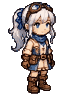
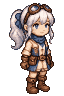
art: regenerate female GATE 02 sprites as whole figures (no patch overlap)
Codex round 4: one coherent sprite per direction, ponytail on her right in
all 8, male unchanged, 16/16 technical PASS. Female NE style mismatch pending.

diff --git a/assets/concepts/trainer-gate02/PROVENANCE.md b/assets/concepts/trainer-gate02/PROVENANCE.md
@@ -1,47 +1,55 @@
 # ART-003-G02 final direction-master provenance
 
 Date: 2026-11-25  
-Approved base: `draft-extract/trainer_{m,f}_{s,sw,w,nw,n,ne,e,se}_64x96.png` (owner-approved look, D018)  
-Design reference: `../trainer-master-v3.webp`
+Approved design reference: `../trainer-master-v3.webp`  
+Scale/reference geometry: `draft-extract/trainer_f_{s,sw,w,nw,n,ne,e,se}_64x96.png`
 
-## Tools and method
+## Final source decision
 
-- OpenAI built-in image edit produced one hair-placement reference sheet from `draft-extract/preview_4x.png` plus `trainer-master-v3.webp`.
-- Python 3 + Pillow performed every crop, exact 4x nearest-neighbour reduction, mask/paste, palette remap, hard-alpha cleanup, detail edit, lineup composition and validation preparation.
-- The generated sheet was **not** accepted as a full-sprite replacement because it changed non-hair pixels and added a background. Only segmented female hair/bow patch pixels were used in the four named directions. They were remapped to each approved draft sprite's existing palette; all other pixels started from the approved draft.
-- Final PNGs have hard alpha only, use no interpolation after the exact nearest-neighbour reduction, and add no colours beyond the corresponding approved draft palette.
+The eight final female files are **whole regenerated sprites**, not patches. No pixels from the rejected composite female files were retained, and no hair, bow, body, limb, clothing, or accessory region was pasted onto an older sprite.
 
-### Review repair pass
+- S, SW, W, NW, N, E, and SE use the complete coherent figures from `build/codex-g02/generated-reference/trainer_f_*_generated_64x96.png`.
+- NE was regenerated as one complete figure with OpenAI's built-in image-generation tool because the coherent-set NE put the ponytail on the wrong side. The accepted full-resolution source is preserved at `build/codex-g02/generated-reference/trainer_f_ne_whole_regenerated_source.png`.
+- The eight male files were not modified in this whole-female replacement pass. SHA-256 comparison before and after the write reported `MALE-HASH-PASS 8/8 unchanged`.
 
-After technical-lead lineup review, `trainer_f_sw_64x96.png`, `trainer_f_n_64x96.png`, and `trainer_f_ne_64x96.png` received a deterministic Pillow-only repair pass. This pass supersedes the earlier description of the NE patch:
+## Image-generation prompt for accepted NE source
 
-- SW retained its corrected generated screen-left ponytail, while the approved draft top cap, goggles, and upper hair clusters were restored with an irregular pixel boundary to remove the dark paste seam.
-- N was rebuilt from the approved N draft. The old left/centred blue bow was converted back into existing silver-hair colours, and only the corrected screen-right bow and external ponytail pixels were copied from the prior hair patch. This restored the round draft silhouette and removed the horizontal seam.
-- NE was rebuilt from the approved NE draft, including its complete head, torso, belt, and legs. The old left bow was recoloured into existing silver-hair colours; only the wrong-side external lower tail was trimmed. The replacement right bow/tail came from the approved unmirrored NW draft and was palette-mapped into NE. No generated pixels or pixels from the broken prior NE patch remain in the repaired NE file.
+> Use case: precise-object-edit  
+> Asset type: standalone Aevoria female trainer NE direction sprite source  
+> Input images: the approved design board and coherent 8-direction set are style/identity references; the standalone NE images are failed targets. Regenerate the entire figure from scratch as one coherent sprite.  
+> Primary request: Create the NE direction (3/4 BACK) female trainer, turned away from the viewer and facing screen-right. Show mostly the back of her head and back/right side of her torso, with only a narrow right cheek/profile. Match the NE pose in the coherent 8-direction reference.  
+> Critical hair geometry: her one blue bow and one silver-white ponytail must attach on SCREEN-RIGHT. The long ponytail must form the outermost screen-right silhouette and trail down the right side behind her shoulder. The screen-left silhouette must contain only the rounded back-head hair--NO ponytail, NO bow, NO hanging hair tail on screen-left.  
+> Design: exactly one continuous silver-white hair mass, exactly one blue bow, exactly one ponytail; brown goggles on head; blue scarf; cream jacket with blue accents; brown gloves, belt and pouches; dark socks; brown boots.  
+> Style: crisp pixel art matching the coherent set, same chibi scale/proportions and selective outlines.  
+> Composition: one complete full-body figure only, upright and centred, generous transparent margin, feet visible, no crop.  
+> Constraints: truly transparent background with zero scenery, glow, shadow, gradient, black fill, or halo. No doubled/overlapping body pieces, no extra limbs/accessories/hair fragments. Do not mirror an existing whole sprite. No blur, antialiasing, text, or watermark.
 
-Image-edit prompt used for the shared reference sheet:
+An earlier NE generation attempt was rejected and is not used because it remained side/front-facing and placed the tail on screen-left.
 
-> Edit only the female character hair and blue bow in the S, SW, N, and NE cells of the 4x lineup. The female side ponytail and bow must be on HER RIGHT in every direction: S screen-left; SW screen-left/back of head; N off-centre screen-right; NE screen-right. Use the approved master board only for identity/style reference. Preserve every male sprite exactly; preserve female body, face, goggles, straps, clothing, canvas placement, scale, feet, palette family, and all W/NW/E/SE sprites exactly. Do not redesign. Keep crisp pixel clusters, hard edges, transparent background, no blur, no antialiasing, no full black outline. Make the smallest possible hair-region changes. Avoid mirroring whole sprites, moving bodies, changing proportions, adding objects, changing non-hair pixels, backgrounds, text, or watermarks.
+## Whole-sprite processing
 
-## Per-file edits
+Python 3 and Pillow performed only whole-figure processing:
 
-| File | Hair source | Pixel edits |
+1. Hardened alpha to 0 or 255 and discarded the transparent generation glow/halo.
+2. Cropped each complete generated figure as a single unit.
+3. For NE only, reduced the complete full-resolution figure to 91 px tall with nearest-neighbour sampling; no part was processed separately.
+4. Placed each complete figure, as one unit, on a transparent 64x96 canvas, horizontally centred with the last opaque foot row at y=93 (two transparent rows below).
+5. Globally reduced each complete sprite to at most 48 opaque colours with dithering disabled.
+6. Removed only disconnected 1-4 px generation fragments and four-neighbour-isolated pixels.
+
+No manual repainting, mirroring, regional compositing, or old-sprite patching was performed.
+
+## Per-file record
+
+| File | Whole-figure source | Final processing |
 |---|---|---|
-| `trainer_m_s_64x96.png` | Approved draft; no regeneration | Sharpened red scarf, goggle lenses/frames, belt buckle, pouch flaps and boot cuffs; removed detached 1–3 px islands if present. |
-| `trainer_m_sw_64x96.png` | Approved draft; no regeneration | Same named male-detail cleanup. |
-| `trainer_m_w_64x96.png` | Approved draft; no regeneration | Same named male-detail cleanup. |
-| `trainer_m_nw_64x96.png` | Approved draft; no regeneration | Same named male-detail cleanup. |
-| `trainer_m_n_64x96.png` | Approved draft; no regeneration | Same named male-detail cleanup. |
-| `trainer_m_ne_64x96.png` | Approved draft; no regeneration | Same named male-detail cleanup. |
-| `trainer_m_e_64x96.png` | Approved draft; no regeneration | Same named male-detail cleanup. |
-| `trainer_m_se_64x96.png` | Approved draft; no regeneration | Same named male-detail cleanup. |
-| `trainer_f_s_64x96.png` | **Regenerated hair/bow region only** from image-edit S patch | Pasted screen-left/right-side ponytail and bow; retained approved body/face/equipment; sharpened blue scarf/bow, goggles, buckle, pouch flaps and boot cuffs. |
-| `trainer_f_sw_64x96.png` | **Regenerated hair/bow region only** from image-edit SW patch, with approved-draft cap restored in review repair | Retained the screen-left/back right-side ponytail; restored the approved draft top cap, goggles, and upper hair clusters to remove the dark seam; retained approved body/face/equipment and prior named detail cleanup. |
-| `trainer_f_w_64x96.png` | Approved draft; no regeneration | Hair side retained; only named female-detail cleanup. |
-| `trainer_f_nw_64x96.png` | Approved draft; no regeneration | Hair side retained; only named female-detail cleanup. |
-| `trainer_f_n_64x96.png` | Approved N draft plus **regenerated right bow/external-tail pixels only** from the prior N hair patch | Rebuilt the head from the approved draft, converted the old left/centred bow back to silver hair, and copied only the corrected screen-right bow/tail. The round silhouette and draft body/equipment were restored; the horizontal paste seam was removed. |
-| `trainer_f_ne_64x96.png` | Approved NE draft plus pixel-edited bow/tail material from the approved unmirrored NW draft; **no regenerated pixels remain** | Rebuilt from the complete NE draft; converted the old left bow to silver hair, trimmed only the wrong-side external lower tail, and placed the NW-derived bow/tail on screen-right. The full back-head mass and all torso/belt/leg pixels were restored. |
-| `trainer_f_e_64x96.png` | Approved draft; no regeneration | Hair side retained; only named female-detail cleanup. |
-| `trainer_f_se_64x96.png` | Approved draft; no regeneration | Hair side retained; only named female-detail cleanup. |
+| `trainer_f_s_64x96.png` | `trainer_f_s_generated_64x96.png` | Complete generated S figure; hard alpha, whole-sprite centring/foot alignment, global 48-colour reduction. Ponytail: screen-left. |
+| `trainer_f_sw_64x96.png` | `trainer_f_sw_generated_64x96.png` | Complete generated SW figure; same whole-sprite processing. Ponytail: screen-left/back. |
+| `trainer_f_w_64x96.png` | `trainer_f_w_generated_64x96.png` | Complete generated W figure; same whole-sprite processing. Ponytail: behind the head. |
+| `trainer_f_nw_64x96.png` | `trainer_f_nw_generated_64x96.png` | Complete generated NW figure; same whole-sprite processing. Ponytail: screen-right. |
+| `trainer_f_n_64x96.png` | `trainer_f_n_generated_64x96.png` | Complete generated N figure; same whole-sprite processing. Ponytail: off-centre screen-right. |
+| `trainer_f_ne_64x96.png` | `trainer_f_ne_whole_regenerated_source.png` | **Entire NE figure regenerated**, then whole-figure nearest-neighbour reduction and the same global processing. Ponytail: screen-right. |
+| `trainer_f_e_64x96.png` | `trainer_f_e_generated_64x96.png` | Complete generated E figure; same whole-sprite processing. Ponytail: behind the head. |
+| `trainer_f_se_64x96.png` | `trainer_f_se_generated_64x96.png` | Complete generated SE figure; same whole-sprite processing. Ponytail: screen-left. |
 
-No whole final sprite was regenerated. Three files contain regenerated **hair-region pixels only** (`f_s`, `f_sw`, and `f_n`); `f_ne` is now approved-draft-only pixel editing, including a small transplant from the approved NW draft. The other twelve files are approved-draft pixel edits only.
+Final visual QA lineup: `build/codex-g02/female_final_8x.png`.

diff --git a/docs/HANDOFF.md b/docs/HANDOFF.md
@@ -8,7 +8,7 @@ Active task: **ART-003-G01 — Trainer Character Master (GATE 01)**, docs/tasks/
 - Direction check (docs/tasks/ART-003-G02.md): male consistent in all 8 directions; **female side ponytail/bow flips** (S unclear, SW and NE mirrored, N centred). Owner decision: fix it in the GATE 02 sprites, not on the board. The tie stays on her right side in every direction; never mirror her hair, bow or straps.
 - Board is concept art, not 64x96 sprites. GATE 02 sprite set (16 PNG, 64x96) is still to be made by ChatGPT or an artist; Claude Code has no image generation. Animation is blocked until the GATE 02 sprites are owner-approved and GATE 03 separation is done.
 - Draft Direction Master exists: `assets/concepts/trainer-gate02/draft-extract/` — 16 sprites (64x96) extracted from the approved board by image processing (`extract_board.py`), 16/16 TECH-PASS, previews `preview_1x.png`/`preview_4x.png`. **Look and proportions approved by owner (D018).** Hand clean-up pending: female ponytail side wrong in S/SW/N/NE; some details softened.
-- Clean-up candidate: Codex (codex-cli, run by Claude Code with workspace-write, 3 rounds) wrote `assets/concepts/trainer-gate02/trainer_{m,f}_{dir}_64x96.png` + PROVENANCE.md; previews `preview_1x.png` / `preview_4x.png`. 16/16 TECH-PASS. Claude review: male clean; female ponytail now on her right side in all 8; female N/NE have fragmented bow/hair pixels and SW a small dark notch. Codex round 1 falsely reported "no defects", so always verify its claims visually.
+- Clean-up candidate: Codex (codex-cli run by Claude Code) wrote `assets/concepts/trainer-gate02/trainer_{m,f}_{dir}_64x96.png` + PROVENANCE.md; previews `preview_1x.png` / `preview_4x.png`. Male = cleaned draft. Female = round 4 whole-sprite regeneration, because the owner rejected the patched version for overlapping sprite pieces. 16/16 TECH-PASS. Claude review: ponytail on her right side in all 8, one hair mass each; female NE is in a different style from the other seven (fix pending). Codex has falsely reported "no defects" before, so always verify its claims visually.
 - Next action: owner decides whether to accept the candidate (minor N/NE/SW polish later) or run another clean-up round. GATE 03 starts only after acceptance.
 
 ## Owner verdict this session (binding — D016, D017)
